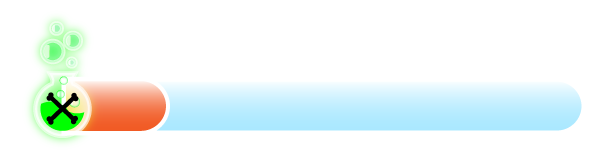
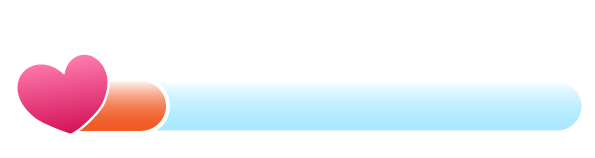
status bar and hurt

Changed region(s): [[0.0303, 0.1266, 0.2118, 0.9114]]

diff --git a/models/character.class.js b/models/character.class.js
@@ -70,6 +70,14 @@ class Character extends MovableObject {
         'img/1.Sharkie/2.Long_IDLE/i14.png'
     ];
 
+    IMAGES_HURT = [
+        'img/1.Sharkie/5.Hurt/1.Poisoned/1.png',
+        'img/1.Sharkie/5.Hurt/1.Poisoned/2.png',
+        'img/1.Sharkie/5.Hurt/1.Poisoned/3.png',
+        'img/1.Sharkie/5.Hurt/1.Poisoned/4.png',
+        'img/1.Sharkie/5.Hurt/1.Poisoned/5.png'
+    ]
+
     IMAGES_DEAD = [
         'img/1.Sharkie/6.dead/1.Poisoned/sin subir/DES 2_00000.png',
         'img/1.Sharkie/6.dead/1.Poisoned/sin subir/DES 2_00001.png',
@@ -94,6 +102,7 @@ class Character extends MovableObject {
         this.loadImages(this.IMAGES_FIN_SLAP);
         this.loadImages(this.IMAGES_IDLE);
         this.loadImages(this.IMAGES_LONG_IDLE);
+        this.loadImages(this.IMAGES_HURT);
         this.loadImages(this.IMAGES_DEAD);
         this.applyGravity();
         this.animate();
@@ -116,7 +125,7 @@ class Character extends MovableObject {
                 this.swimming_sound.play();
             }
 
-            if (this.world.keyboard.UP && this.y > -130) {
+            if (this.world.keyboard.UP && this.y > -20) {
                 this.y -= this.speed;
                 this.swimming_sound.play();
             }
@@ -133,6 +142,8 @@ class Character extends MovableObject {
 
             if (this.isDead()) {
                 this.playAnimation(this.IMAGES_DEAD);
+            } else if(this.isHurt()) {
+                this.playAnimation(this.IMAGES_HURT);
             } else if (this.world.keyboard.RIGHT || this.world.keyboard.LEFT || this.world.keyboard.UP || this.world.keyboard.DOWN) {
                 this.playAnimation(this.IMAGES_SWIMMING);
             } else if (!this.world.keyboard.SPACE || !this.world.keyboard.RIGHT || !this.world.keyboard.LEFT || !this.world.keyboard.UP || !this.world.keyboard.DOWN) {
@@ -145,11 +156,5 @@ class Character extends MovableObject {
                 this.playAnimation(this.IMAGES_FIN_SLAP);
             };
         }, 10);
-
-        /* setInterval(() => {
-            if (!this.world.keyboard.SPACE || !this.world.keyboard.RIGHT || !this.world.keyboard.LEFT || !this.world.keyboard.UP || !this.world.keyboard.DOWN) {
-                this.playAnimation(this.IMAGES_SWIMMING);
-            };
-        }, 200); */
     };
 } 

diff --git a/models/moveable-object.class.js b/models/moveable-object.class.js
@@ -1,17 +1,11 @@
-class MovableObject {
-    x = 120;
-    y = 400;
-    img;
-    height = 100;
-    width = 100;
-    imageCache = {};
-    currentImage = 0;
+class MovableObject extends DrawableObject {
     speed = 0.15;
     otherDirection = false;
     goUp = false;
     speedY = 0;
     acceleration = 0.00;
     energy = 100;
+    lastHit = 0;
 
     offset = {
         top: 0,
@@ -33,36 +27,6 @@ class MovableObject {
         return this.y < 240;
     }
 
-    loadImage(path) {
-        this.img = new Image();
-        this.img.src = path;
-    }
-
-    loadImages(arr) {
-        arr.forEach(path => {
-            let img = new Image();
-            img.src = path;
-            this.imageCache[path] = img;
-        });
-
-    }
-
-    draw(ctx) {
-        ctx.drawImage(this.img, this.x, this.y, this.width, this.height);
-    }
-
-    drawFrame(ctx) {
-
-        if (this instanceof Character || this instanceof Pufferfish || this instanceof Jellyfish_green || this instanceof Jellyfish_lila || this instanceof Jellyfish_pink) {
-            ctx.beginPath();
-            ctx.lineWidth = '5';
-            ctx.strokeStyle = "blue";
-            ctx.rect(this.x, this.y, this.width, this.height);
-            ctx.stroke();
-        }
-
-    }
-
     isColliding (obj) {
         return  (this.x + this.width - this.offset.right) >= obj.x && 
             (this.x + this.offset.left) <= (obj.x + obj.width) && 
@@ -74,7 +38,14 @@ class MovableObject {
         this.energy -= 5;
         if (this.energy < 0){
             this.energy = 0;
-        };
+        } else {
+            this.lastHit = new Date().getTime();
+        }
+    }
+
+    isHurt() {
+       let timepassed = new Date().getTime() - this.lastHit;
+       return timepassed < 500;
     }
 
     isDead() {

diff --git a/models/world.class.js b/models/world.class.js
@@ -5,6 +5,9 @@ class World {
     ctx;
     keyboard;
     camera_x = 0;
+    statusBar = new StatusBar();
+    statusBarCoins = new StatusBarCoins();
+    statusBarPoisson = new StatusBarPoisson();
 
     constructor(canvas, keyboard) {
         this.ctx = canvas.getContext('2d');
@@ -25,7 +28,7 @@ class World {
             this.level.enemies.forEach((enemy) => {
                if (this.character.isColliding(enemy) ) {
                 this.character.hit();
-                console.log('collision with Character, energy' , this.character.energy);
+                this.statusBar.setPercentage(this.character.energy);
                };
             });
         }, 200);
@@ -33,14 +36,16 @@ class World {
 
     draw() {
         this.ctx.clearRect(0, 0, this.canvas.width, this.canvas.height);
-
         this.ctx.translate(this.camera_x, 0);
-
         this.addObjectsToMap(this.level.backgroundObjects);
         this.addObjectsToMap(this.level.enemies);
         this.addToMap(this.character);
-
         this.ctx.translate(-this.camera_x, 0);
+        this.addToMap(this.statusBar);
+        this.addToMap(this.statusBarCoins);
+        this.addToMap(this.statusBarPoisson);
+        /* this.ctx.translate(+this.camera_x, 0);
+        this.ctx.translate(-this.camera_x, 0); */
 
         //Draw() wird immer wieder aufgerufen
         let self = this;

diff --git a/models/drawable-object.class.js b/models/drawable-object.class.js
@@ -1,0 +1,40 @@
+class DrawableObject {
+    img;
+    imageCache = {};
+    currentImage = 0;
+    x = 120;
+    y = 400;
+    height = 100;
+    width = 100;
+
+    loadImage(path) {
+        this.img = new Image();
+        this.img.src = path;
+    }
+
+    loadImages(arr) {
+        arr.forEach(path => {
+            let img = new Image();
+            img.src = path;
+            this.imageCache[path] = img;
+        });
+
+    }
+
+    draw(ctx) {
+        ctx.drawImage(this.img, this.x, this.y, this.width, this.height);
+    }
+
+    drawFrame(ctx) {
+
+        if (this instanceof Character || this instanceof Pufferfish || this instanceof Jellyfish_green || this instanceof Jellyfish_lila || this instanceof Jellyfish_pink) {
+            ctx.beginPath();
+            ctx.lineWidth = '5';
+            ctx.strokeStyle = "blue";
+            ctx.rect(this.x, this.y, this.width, this.height);
+            ctx.stroke();
+        }
+
+    }
+
+}

diff --git a/models/status-bar.class.js b/models/status-bar.class.js
@@ -1,0 +1,33 @@
+class StatusBar extends DrawableObject {
+    IMAGES = [
+        'img/4. Marcadores/orange/0_  copia.png',
+        'img/4. Marcadores/orange/20_ copia.png',
+        'img/4. Marcadores/orange/40_  copia.png',
+        'img/4. Marcadores/orange/60_  copia.png',
+        'img/4. Marcadores/orange/80_  copia.png',
+        'img/4. Marcadores/orange/100_  copia.png'
+    ];
+
+
+    percentage = 100;
+
+    constructor() {
+        super();
+        this.loadImages(this.IMAGES);
+        this.setPercentage(100);
+        this.x = 20;
+        this.y = 0;
+        this.width = 200;
+        this.height = 40;
+    };
+
+    setPercentage(percentage) {
+        this.percentage = percentage;
+        let path = this.IMAGES[this.resolveImageIndex()];
+        this.img = this.imageCache[path];
+    };
+
+    resolveImageIndex() {
+        return Math.floor(this.percentage / 20) ;
+    }
+};

diff --git a/models/status-bar-coins.class.js b/models/status-bar-coins.class.js
@@ -1,0 +1,34 @@
+class StatusBarCoins extends DrawableObject {
+    IMAGES = [
+        'img/4. Marcadores/orange/0_  copia 2.png',
+        'img/4. Marcadores/orange/20_  copia 2.png',
+        'img/4. Marcadores/orange/40_  copia 2.png',
+        'img/4. Marcadores/orange/60_  copia 2.png',
+        'img/4. Marcadores/orange/80_  copia 2.png',
+        'img/4. Marcadores/orange/100_ copia 2.png'
+    ];
+
+    percentage = 0;
+
+    constructor() {
+        super();
+        this.loadImages(this.IMAGES);
+        this.setPercentage(0);
+        this.x = 20;
+        this.y = 40;
+        this.width = 200;
+        this.height = 40;
+    };
+
+    setPercentage(percentage) {
+        this.percentage = percentage;
+        let path = this.IMAGES[this.resolveImageIndex()];
+        this.img = this.imageCache[path];
+    };
+
+    resolveImageIndex() {
+        return 5 ;
+    }
+
+}
+

diff --git a/models/status-bar-poisson.class.js b/models/status-bar-poisson.class.js
@@ -1,0 +1,33 @@
+class StatusBarPoisson extends DrawableObject {
+    IMAGES = [
+        'img/4. Marcadores/orange/0_ copia.png',
+        'img/4. Marcadores/orange/20_ copia.png',
+        'img/4. Marcadores/orange/40_ copia.png',
+        'img/4. Marcadores/orange/60_ copia.png',
+        'img/4. Marcadores/orange/80_ copia.png',
+        'img/4. Marcadores/orange/100_ copia.png',
+    ];
+
+    percentage = 0;
+
+    constructor() {
+        super();
+        this.loadImages(this.IMAGES);
+        this.setPercentage(0);
+        this.x = 20;
+        this.y = 80;
+        this.width = 200;
+        this.height = 40;
+    };
+
+    setPercentage(percentage) {
+        this.percentage = percentage;
+        let path = this.IMAGES[this.resolveImageIndex()];
+        this.img = this.imageCache[path];
+    };
+
+    resolveImageIndex() {
+        return 5 ;
+    }
+
+}

diff --git a/index.html b/index.html
@@ -6,9 +6,13 @@
     <meta name="viewport" content="width=device-width, initial-scale=1.0">
     <link rel="stylesheet" href="style.css">
     <title>Sharkie</title>
+    <script src="models/drawable-object.class.js"></script>
     <script src="models/moveable-object.class.js"></script>
     <script src="models/character.class.js"></script>
     <script src="models/pufferfish.class.js"></script>
+    <script src="models/status-bar.class.js" ></script>
+    <script src="models/status-bar-coins.class.js"></script>
+    <script src="models/status-bar-poisson.class.js"></script>
     <script src="models/world.class.js"></script>
     <script src="models/background-object.class.js"></script>
     <script src="models/keyboard.class.js"></script>

diff --git a/js/game.js b/js/game.js
@@ -5,8 +5,6 @@ let keyboard = new Keyboard;
 function init(){
     canvas = document.getElementById('canvas');
     world = new World(canvas, keyboard);
-
-    console.log('My Charakter is ', world.character);
 }
 
 

diff --git a/models/level.class.js b/models/level.class.js
@@ -2,7 +2,7 @@ class Level {
     enemies;
     backgroundObjects;
     level_end_x = 2150;
-    level_start_y = 20;
+    level_start_y = 120;
     level_end_y = 400;
     
     
